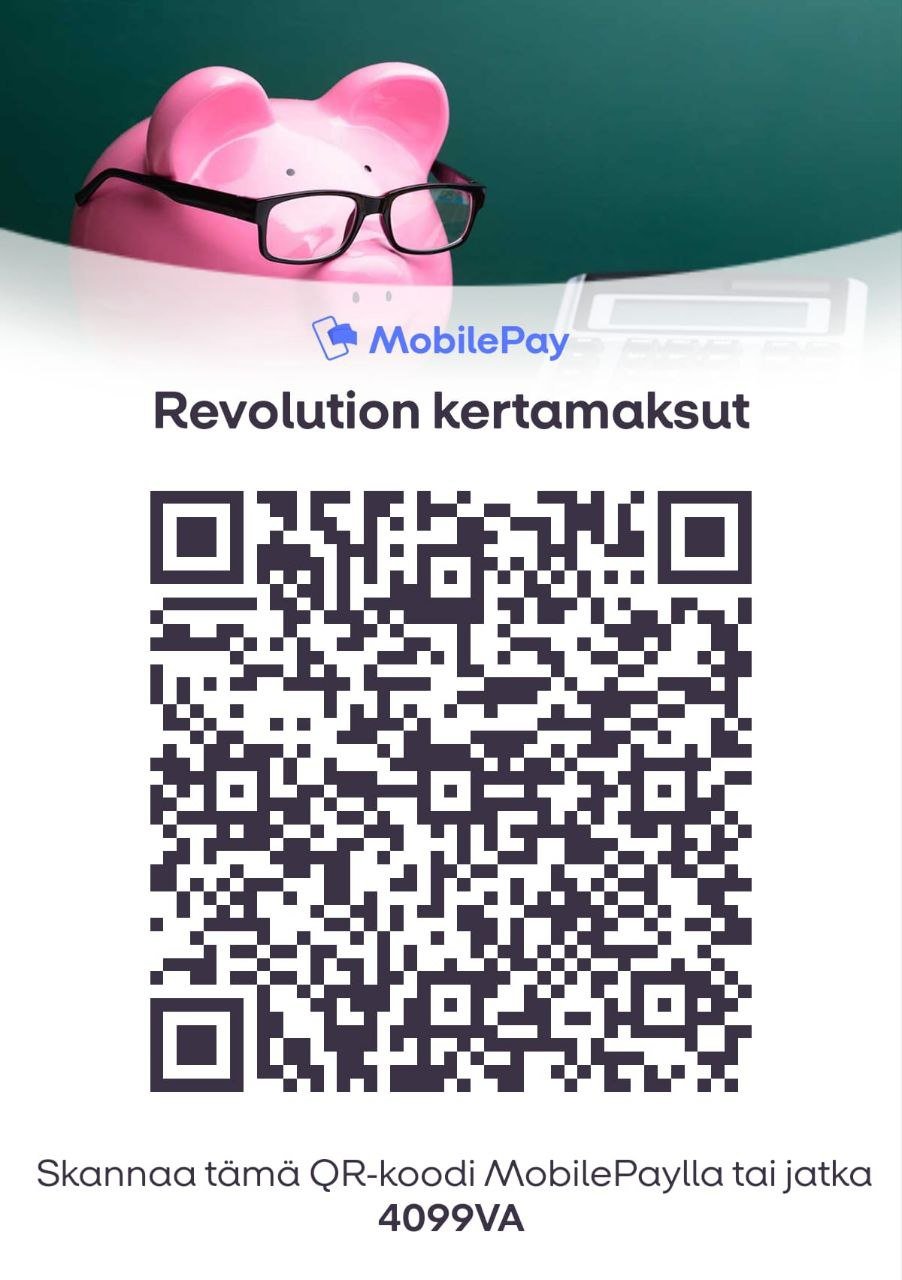
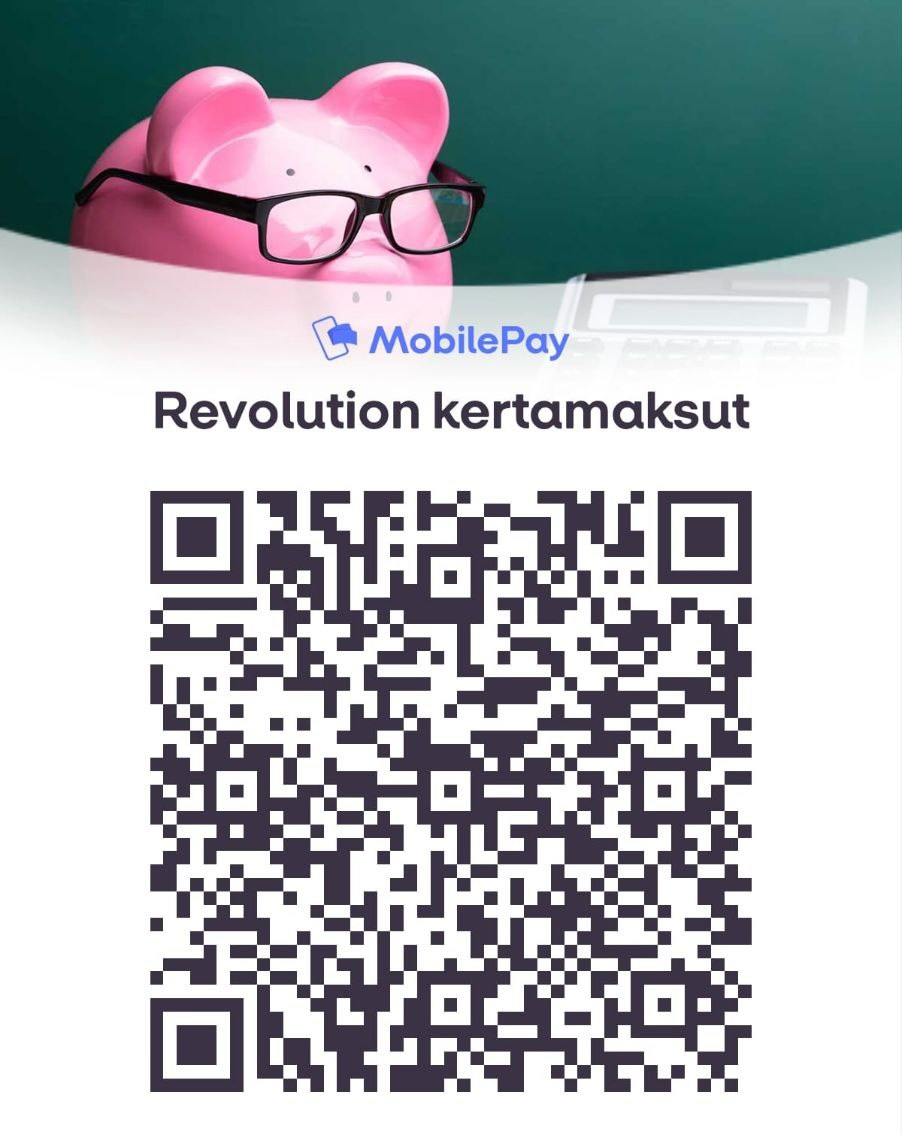
add content for juveniles

diff --git a/app/junnutoiminta/page.tsx b/app/junnutoiminta/page.tsx
@@ -1,0 +1,117 @@
+import { Mail } from "lucide-react"
+import { CopyButton } from "@/components/ui/copy-button"
+
+export default function JunnutoimintaPage() {
+  return (
+    <>
+      {/* Hero Section */}
+      <section className="bg-gradient-to-r from-slate-900 to-slate-800 text-white py-16 md:py-24">
+        <div className="container mx-auto px-4 text-center">
+          <h1 className="text-3xl md:text-4xl lg:text-5xl font-bold mb-6">Revolution tarjoaa 7-15 vuotiaille junioireille monipuolista liikuntaa kamppailulajien parissa</h1>
+        </div>
+      </section>
+
+      {/* Main Content */}
+      <section className="py-16 md:py-24 bg-white">
+        <div className="container mx-auto px-4 max-w-4xl">
+          <h2 className="text-2xl md:text-3xl font-bold mb-8">Lasten ja Nuorten BJJ (7-15 vuotiaat)</h2>
+          
+          <div className="space-y-8">
+            <div>
+              <h3 className="text-xl font-semibold mb-3">Lajikuvaus</h3>
+              <p className="text-slate-600 mb-4">
+                Junnu BJJ eli Brasilialainen Jujutsu on tehokas mattokamppailuun keskittyvä kamppailulaji. BJJ:n parissa nuori oppii puolustamaan itseään, saa hyvän fyysisen kunnon ja tutustuu uusiin kavereihin. Brasilian jujutsussa kamppailu pyritään viemään maahan ja päättämään se lukolla. Oikeiden tekniikoiden ja yhdistelmien käyttäminen sekä nopeiden ratkaisujen tekeminen oikeaan aikaan ja oikeassa tilanteessa vaativat mielen ja kehon saumatonta yhteistyötä.
+              </p>
+              <p className="text-slate-600 mb-4">
+                Hyvät käytöstavat, toisten huomioon ottaminen ja kunnioittaminen ovat olennainen osa Junnu BJJ:tä. Kurinalainen ja säännöllinen harjoittelu parantavat lasten ja nuorten keskittymiskykyä, itseluottamusta ja motorisia taitoja.
+              </p>
+              <p className="text-slate-600">
+                Harjoituksissa nuoret pääsevät mittelöimään painin keinoin tekniikasta, voimasta ja taidosta turvallisessa ympäristössä, valvovan silmän alla.
+              </p>
+            </div>
+
+            <div>
+              <h3 className="text-xl font-semibold mb-3">Harjoitusvarusteet</h3>
+              <p className="text-slate-600">
+                Alkuun pääsee veryttelyhousuilla/shortseilla ja t-paidalla. Pikapuolin tulee kuitenkin hankittavaksi jujutsu-puku (gi).
+              </p>
+            </div>
+
+            <div>
+              <h3 className="text-xl font-semibold mb-3">Harjoituskortti</h3>
+              <p className="text-slate-600">
+                Jokaiselle harrastajalle jaetaan ensimmäisen harjoituksen yhteydessä harjoituskortti. Harjoituskortin tarkoituksena on seurata oppilaiden harjoitusmääriä. Harjoitusmäärä ja kehittyminen vaikuttavat natsojen / seuraavan vyöarvon saamiseen.
+              </p>
+            </div>
+
+            <div>
+              <h3 className="text-xl font-semibold mb-3">Ohjaajat</h3>
+              <p className="text-slate-600">
+                Vastuuohjaajina toimivat Joni Heinonen, Jani Tuomela, Marko Tuomola ja Saku Heikurinen.
+              </p>
+            </div>
+
+            <div>
+              <h3 className="text-xl font-semibold mb-3">Vakuutus</h3>
+              <p className="text-slate-600">
+                Jokainen harjoittelija vastaa itse harjoituksissa mahdollisesti sattuvista vahingoista ja tapaturmista. Harjoitusmaksuun ei sisälly vakuutusta. Jos lapsellanne on jokin vakuutus, niin suosittelen vakuutusturvan tarkastamista, että se kattaa varmasti krav magan harjoittelun.
+              </p>
+            </div>
+
+            <div>
+              <h3 className="text-xl font-semibold mb-3">Vanhemmat</h3>
+              <p className="text-slate-600">
+                Vanhempien toivotaan odottavan yläkerrassa, jotta he eivät häiritse lastensa keskittymistä.
+              </p>
+            </div>
+
+            <div>
+              <h3 className="text-xl font-semibold mb-3">Myöhästyminen, poissaolot</h3>
+              <p className="text-slate-600">
+                Saapuessanne myöhässä harjoituksiin, harjoittelijan tulee odottaa harjoitusalueen reunalla ohjaajan lupaa liittyä mukaan. Poissaoloista, sairastumisista ym. ei tarvitse ilmoittaa.
+              </p>
+            </div>
+
+            <div>
+              <h3 className="text-xl font-semibold mb-3">Valokuvaus</h3>
+              <p className="text-slate-600">
+                Harjoituksissa on tarkoitus ottaa valokuvia, joita käytetään tulevien kurssien mainontaan ja seuran nettisivuilla. Ilmoitathan erikseen jos lastasi ei saa näkyä kuvissa.
+              </p>
+            </div>
+
+            <div>
+              <h3 className="text-xl font-semibold mb-3">Sosiaalitilat</h3>
+              <p className="text-slate-600">
+                Pukuhuoneet, vessat ja suihkut löytyvät alakerrasta. Näytetään erikseen ensimmäisten treenien yhteydessä.
+              </p>
+            </div>
+
+            <div>
+              <h3 className="text-xl font-semibold mb-3">Tiedottaminen ja viestintä</h3>
+              <p className="text-slate-600 mb-4">
+                Vanhempia tullaan tiedottamaan harjoituksiin liittyvistä asioista pääsääntöisesti sähköpostitse. Toivomme avointa kommunikointia vanhempien kanssa, eli ottakaa rohkeasti yhteyttä, jos jokin askarruttaa mieltänne (sähköpostitse, puhelimitse tai sitten nykäisette ohjaajaa hihasta).
+              </p>
+              <p className="text-slate-600">
+                Kuulisimme myös mieluusti palautetta harjoituksista, jotta pystymme kehittämään toimintaamme. Eli jos lapsenne kertoo kotona pitäneensä erityisesti jostakin tai jos jokin oli sellaista josta hän ei pitänyt niin otamme mieluusti tämän palautteen vastaan.
+              </p>
+            </div>
+            
+            <div className="mt-8 pt-8 border-t border-slate-200">
+              <h3 className="text-xl font-semibold mb-3">Ota yhteyttä</h3>
+              <p className="text-slate-600 mb-4">
+                Jos sinulla on kysyttävää junnutoiminnasta, otathan yhteyttä sähköpostitse:
+              </p>
+              <div className="flex items-center">
+                <Mail className="h-5 w-5 text-[#379fdc] mr-3" />
+                <a href="mailto:revolutionsalo@gmail.com" className="text-[#379fdc] hover:underline">
+                  revolutionsalo@gmail.com
+                  <CopyButton text="revolutionsalo@gmail.com" label="email" />
+                </a>
+              </div>
+            </div>
+          </div>
+        </div>
+      </section>
+    </>
+  )
+} 

diff --git a/app/kertamaksut/page.tsx b/app/kertamaksut/page.tsx
@@ -1,4 +1,5 @@
 import Image from "next/image"
+import { CopyButton } from "@/components/ui/copy-button"
 
 export default function KertamaksutPage() {
   return (
@@ -20,12 +21,18 @@ export default function KertamaksutPage() {
               className="mx-auto"
             />
           </div>
-          
+          <p className="mt-4 mb-2">
+            Tai käytä koodia:
+          </p>
+          <div className="flex items-center justify-center mt-2 mb-6">
+            <span className="font-semibold text-[#379fdc] text-xl">4099VA</span>
+            <CopyButton text="4099VA" label="MobilePay code" />
+          </div>
           <p className="mt-8 text-slate-600">
             Kertamaksu: <span className="font-semibold text-[#379fdc]">9€</span>
           </p>
           <p className="mt-2 text-slate-600">
-            Ota kuitti tai kuvakaappaus maksusta ja näytä se kassalla.
+            Ota kuitti tai kuvakaappaus maksusta ja näytä se ohjaajalle.
           </p>
         </div>
       </div>

diff --git a/app/page.tsx b/app/page.tsx
@@ -1,7 +1,8 @@
 import { Clock, MapPin, Mail, Phone, Facebook, Instagram } from "lucide-react"
 import { Card, CardContent, CardHeader, CardTitle } from "@/components/ui/card"
 import { CopyButton } from "@/components/ui/copy-button"
-import scheduleData from "./data/schedule.json"
+import scheduleData from "./schedule.json"
+import Link from "next/link"
 
 export default function Home() {
   return (
@@ -253,6 +254,11 @@ export default function Home() {
                 <p className="text-slate-600">
                   Treenit 2x viikossa, koko kauden ajan (kevät/syksy)
                 </p>
+                <div className="mt-4 pt-4 border-t border-slate-200">
+                  <Link href="/junnutoiminta" className="text-[#379fdc] hover:underline flex items-center">
+                    Lue lisää junnutoiminnasta →
+                  </Link>
+                </div>
               </CardContent>
             </Card>
           </div>

diff --git a/app/layout.tsx b/app/layout.tsx
@@ -42,6 +42,11 @@ export default function RootLayout({
                   </Link>
                 </li>
                 <li>
+                  <Link href="/junnutoiminta" className="text-slate-800 dark:text-slate-200 hover:text-[#379fdc] transition-colors font-medium">
+                    Junnutoiminta
+                  </Link>
+                </li>
+                <li>
                   <Link href="/#hinnasto" className="text-slate-800 dark:text-slate-200 hover:text-[#379fdc] transition-colors font-medium">
                     Hinnasto
                   </Link>
